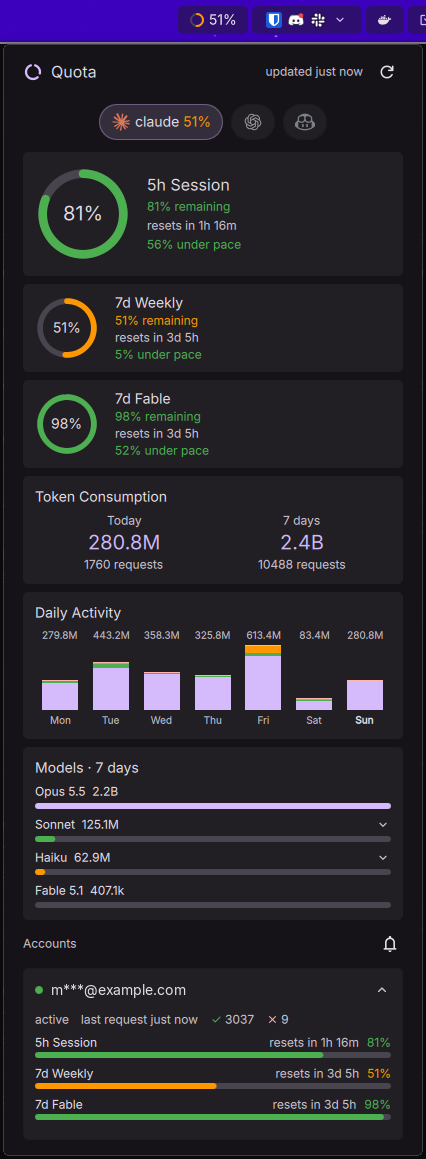
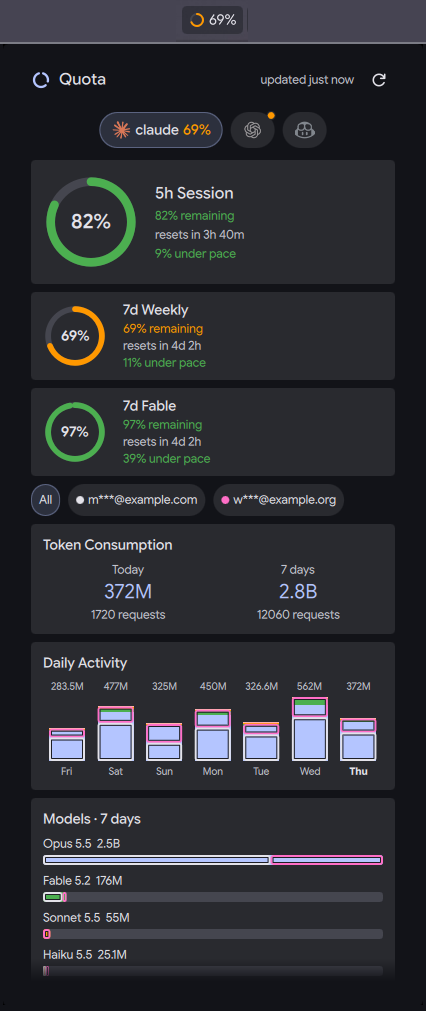
docs: README and registry screenshots for per-account usage and the hover

Changed region(s): [[0.0, 0.0, 1.0, 0.9812], [0.4577, 0.4293, 0.9155, 0.6439], [0.8239, 0.5213, 0.885, 0.5519]]

diff --git a/README.md b/README.md
@@ -5,7 +5,7 @@ plugin that shows how much provider quota remains behind your
 [CLIProxyAPI](https://github.com/router-for-me/CLIProxyAPI) server — every
 provider, every quota group, without opening another tool.
 
-<img width="390" height="931" alt="image" src="https://github.com/user-attachments/assets/3d4d85a9-1797-4db2-99c0-e4275e4b41e4" /> <img width="391" height="912" alt="image" src="https://github.com/user-attachments/assets/e76e5b0c-7697-4987-a9c9-c23044dafc88" />
+<img width="390" alt="Popout with two accounts: account chips, account outlines in the Daily Activity and Models bars" src="docs/images/popout.png" /> <img width="390" alt="Daily Activity hover: each account's part of the day with its models" src="docs/images/hover.png" />
 
 
 
@@ -55,8 +55,13 @@ freedesktop Secret Service vault.
   local day. When a counter drops between two polls the plugin reads it as a
   restart and counts the new value as traffic since the restart, so a restart
   costs at most one poll interval of history instead of the whole day. Models are
-  data: whatever the bridge reports renders, nothing is named in code. The
-  per-account split requires pi-bridge 0.12.0 or newer.
+  data: whatever the bridge reports renders, nothing is named in code.
+- **Usage per account.** With two or more accounts on a provider, each
+  account gets a colour: outlined boxes in the Daily Activity and Models bars
+  show its share, and account chips filter the usage cards to one account.
+  Hovering a day shows that day's bar split by account, with each account's
+  models beside its part. Requires pi-bridge 0.12.0 or newer; days before the
+  bridge update show as "earlier".
 - **Providers are data, not code.** Group ids, labels, and providers come
   from the bridge and are never used in rendering or aggregation decisions;
   the one exception is picking an icon, and an unknown provider gets a

diff --git a/PLAN.md b/PLAN.md
@@ -102,7 +102,9 @@ order is the server's order. Each page:
   replaces the border.
 - Usage cards: when per-account tokens are available for a provider with multiple
   accounts, Daily Activity and Models outline each account's share, and account
-  chips filter those cards and Token Consumption.
+  chips filter those cards and Token Consumption. Hovering a day opens a box
+  under the bars with that day's bar split by account (unsplit usage as
+  "earlier"), each part labelled with its account and its models.
 - Header: `cache.updatedAt` age and a refresh button hitting `?refresh=1` (server
   rate-limits that to its cache TTL, so a mashed button degrades to a normal read).
 
